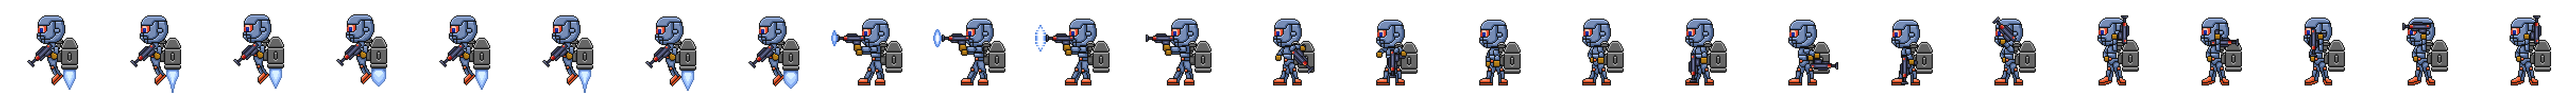
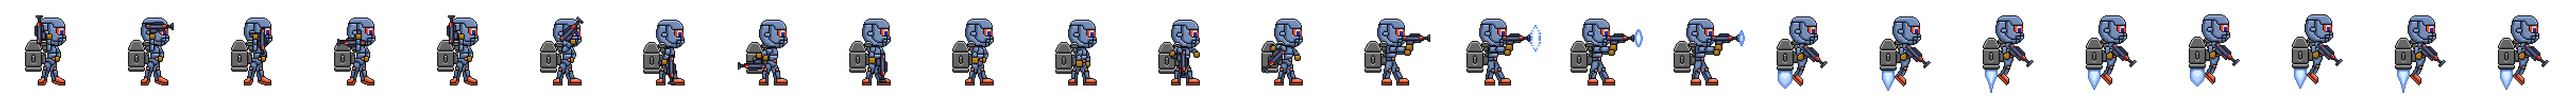
add defender sprites and animation

Changed region(s): [[0.0, 0.1237, 0.9963, 0.8351]]

diff --git a/src/js/game/Defender.js b/src/js/game/Defender.js
@@ -1,6 +1,11 @@
 import * as gv from "./global_variables";
 import { Projectile } from "./Projectile";
 import { valuesList } from "./functions";
+import defenderOne from '../../img/defender1.png';
+import { frame } from "./functions";
+
+const defender1 = new Image();
+defender1.src = defenderOne;
 
 export class Defender {
     constructor(x,y) {
@@ -9,24 +14,46 @@ export class Defender {
         this.width = gv.cellSize - gv.cellGap * 2;
         this.height = gv.cellSize - gv.cellGap* 2;
         this.shooting = false;
+        this.shootNow = false;
         this.health = 50 + valuesList[8] * 4;
         this.projectiles = [];
         this.timer = 0;
         this.speedFire = 20 + Math.floor(valuesList[2]*0.6);
+        this.frameX = 0;
+        this.frameY = 0;
+        this.minFrame = 0;
+        this.maxFrame = 16;
+        this.spriteWidth = 194;
+        this.spriteHeight = 194;
     }
     draw(){
-        gv.ctx.fillStyle = 'blue';
-        gv.ctx.fillRect(this.x, this.y, this.width, this.height);
+        // gv.ctx.fillStyle = 'blue';
+        // gv.ctx.fillRect(this.x, this.y, this.width, this.height);
         gv.ctx.fillStyle = 'gold';
         gv.ctx.font = '30px Stick No Bills';
         gv.ctx.fillText(Math.floor(this.health), this.x +22, this.y+35);
+        // gv.ctx.drawImage(img, sx, sy, sw, sh, dx, dy, dw, dh);
+        gv.ctx.drawImage(defender1, this.frameX * this.spriteWidth, 
+            this.frameY * this.spriteHeight, this.spriteWidth, this.spriteHeight,
+            this.x, this.y, this.width, this.height);
+
     }
     update(){
+        if (frame % 5 === 0) {
+            if (this.frameX < this.maxFrame) this.frameX++;
+            else this.frameX = this.minFrame;
+            if (this.frameX === 15) this.shootNow = true;
+        }
         if (this.shooting) {
-            this.timer++;
-            if(this.timer % this.speedFire === 0){
-                gv.projectiles.push(new Projectile(this.x + gv.cellSize, this.y + gv.cellSize/2))
-            }
+            this.minFrame = 0;
+            this.maxFrame = 17;
+        } else {
+            this.minFrame = 17;
+            this.maxFrame = 24;
+        }
+        if (this.shooting && this.shootNow) {
+            gv.projectiles.push(new Projectile(this.x + 70, this.y + 40))
+            this.shootNow = false;
         }
 
     }
